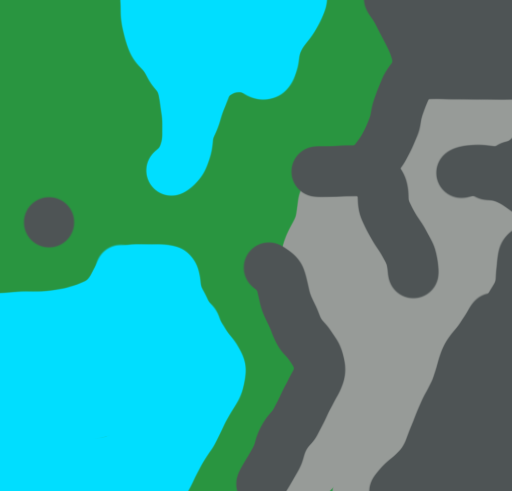
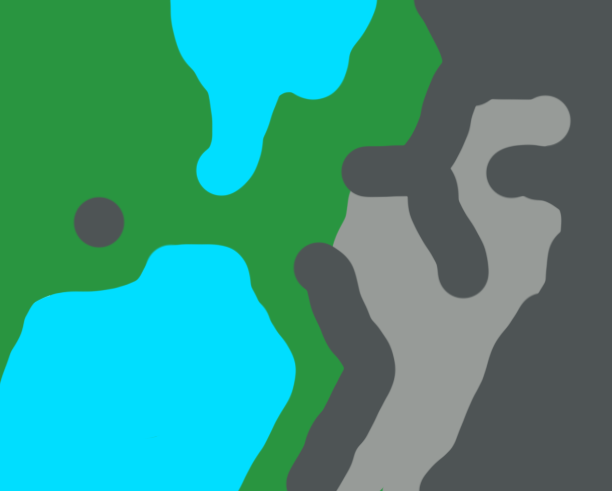
Widened First Level

diff --git a/firstLevel.js b/firstLevel.js
@@ -1,6 +1,6 @@
 var firstLevel = {
  
- 	sizeX: 10,
+ 	sizeX: 12,
  	sizeY: 10,
  	
  	background: 'img/background.png',
@@ -11,74 +11,81 @@ var firstLevel = {
  	],
  	
  	walls: [
- 		{x:0,y:4},
- 		{x:7,y:0},
+ 		{x:1,y:4},
  		{x:8,y:0},
  		{x:9,y:0},
- 		{x:8,y:1},
+ 		{x:10,y:0},
  		{x:9,y:1},
- 		{x:7,y:2},
- 		{x:6,y:3},
+ 		{x:10,y:1},
+ 		{x:8,y:2},
  		{x:7,y:3},
- 		{x:9,y:3},
- 		{x:7,y:4},
- 		{x:8,y:5},
- 		{x:9,y:6},
- 		{x:9,y:7},
- 		{x:8,y:8},
+ 		{x:8,y:3},
+ 		{x:10,y:3},
+ 		{x:8,y:4},
+ 		{x:9,y:5},
+ 		{x:10,y:6},
+ 		{x:10,y:7},
  		{x:9,y:8},
- 		{x:8,y:9},
+ 		{x:10,y:8},
  		{x:9,y:9},
- 		{x:5,y:5},
- 		{x:5,y:6},
- 		{x:6,y:7},
- 		{x:5,y:8},
- 		{x:5,y:9},
+ 		{x:10,y:9},
+ 		{x:6,y:5},
+ 		{x:6,y:6},
+ 		{x:7,y:7},
+ 		{x:6,y:8},
+ 		{x:6,y:9},
+ 		{x:11,y:0},
+ 		{x:11,y:1},
+ 		{x:11,y:2},
+ 		{x:11,y:3},
+ 		{x:11,y:4},
+ 		{x:11,y:5},
+ 		{x:11,y:6},
+ 		{x:11,y:7},
+ 		{x:11,y:8},
+ 		{x:11,y:9},
  	],
  		
  	pits: [
- 		{x:2,y:0},
  		{x:3,y:0},
  		{x:4,y:0},
  		{x:5,y:0},
- 		{x:3,y:1},
+ 		{x:6,y:0},
  		{x:4,y:1},
  		{x:5,y:1},
- 		{x:3,y:2},
- 		{x:3,y:3},
- 		{x:2,y:5},
+ 		{x:6,y:1},
+ 		{x:4,y:2},
+ 		{x:4,y:3},
  		{x:3,y:5},
- 		{x:0,y:6},
+ 		{x:4,y:5},
  		{x:1,y:6},
  		{x:2,y:6},
  		{x:3,y:6},
- 		{x:0,y:7},
+ 		{x:4,y:6},
  		{x:1,y:7},
  		{x:2,y:7},
  		{x:3,y:7},
  		{x:4,y:7},
- 		{x:0,y:8},
+ 		{x:5,y:7},
  		{x:1,y:8},
  		{x:2,y:8},
  		{x:3,y:8},
- 		{x:0,y:9},
+ 		{x:4,y:8},
  		{x:1,y:9},
  		{x:2,y:9},
  		{x:3,y:9},
+ 		{x:4,y:9},
+ 		{x:0,y:6},
+ 		{x:0,y:7},
+ 		{x:0,y:8},
+ 		{x:0,y:9},
  	],
  	
  	mobs: [
  		{
-			x:9,
+			x:10,
 			y:2,
 			id:dataMobs.hellhound,
-			ai: 'dormant',
- 		},
- 		
- 		{
-			x:6,
-			y:9,
-			id:dataMobs.rat,
 			ai: 'dormant',
  		},
  		
@@ -88,29 +95,36 @@ var firstLevel = {
 			id:dataMobs.rat,
 			ai: 'dormant',
  		},
+ 		
+ 		{
+			x:8,
+			y:9,
+			id:dataMobs.rat,
+			ai: 'dormant',
+ 		},
  	],
  	
  	triggers: [
  		{
- 			x: 2,
+ 			x: 3,
  			y: 4,
  			event: 'intro',
  		},
  		
  		{
- 			x: 9,
+ 			x: 10,
  			y: 5,
  			event: 'noHellhound',
  		},
  		
  		{
- 			x: 8,
+ 			x: 9,
  			y: 2,
  			event: 'puppy',
  		},
  		
  		{
- 			x: 5,
+ 			x: 6,
  			y: 4,
  			event: 'rats',
  		},
@@ -138,9 +152,9 @@ var firstLevel = {
  			view.displayDialogue("Ugh, I see rat droppings.  Is this cave filled with giant rats?  What is this, the first level of a fantasy RPG?",this.name,this.img,"left");
  			this.location.event = undefined;
  			mobs[4].stats.move = 4;
- 			mobs[4].move(map.hexes[67]);
+ 			mobs[4].move(map.hexes[104]);
  			mobs[3].stats.move = 4;
- 			mobs[3].move(map.hexes[77]);
+ 			mobs[3].move(map.hexes[92]);
  			mobs[3].ai = ai.basic;
  			mobs[4].ai = ai.basic;
  		},

diff --git a/style.css b/style.css
@@ -81,6 +81,8 @@ body {
 	top: 0;
 	width: 100%;
 	text-align: center;
+	font-size: .5em;
+	opacity: 0.5;
 	display: none;
 	}
 
